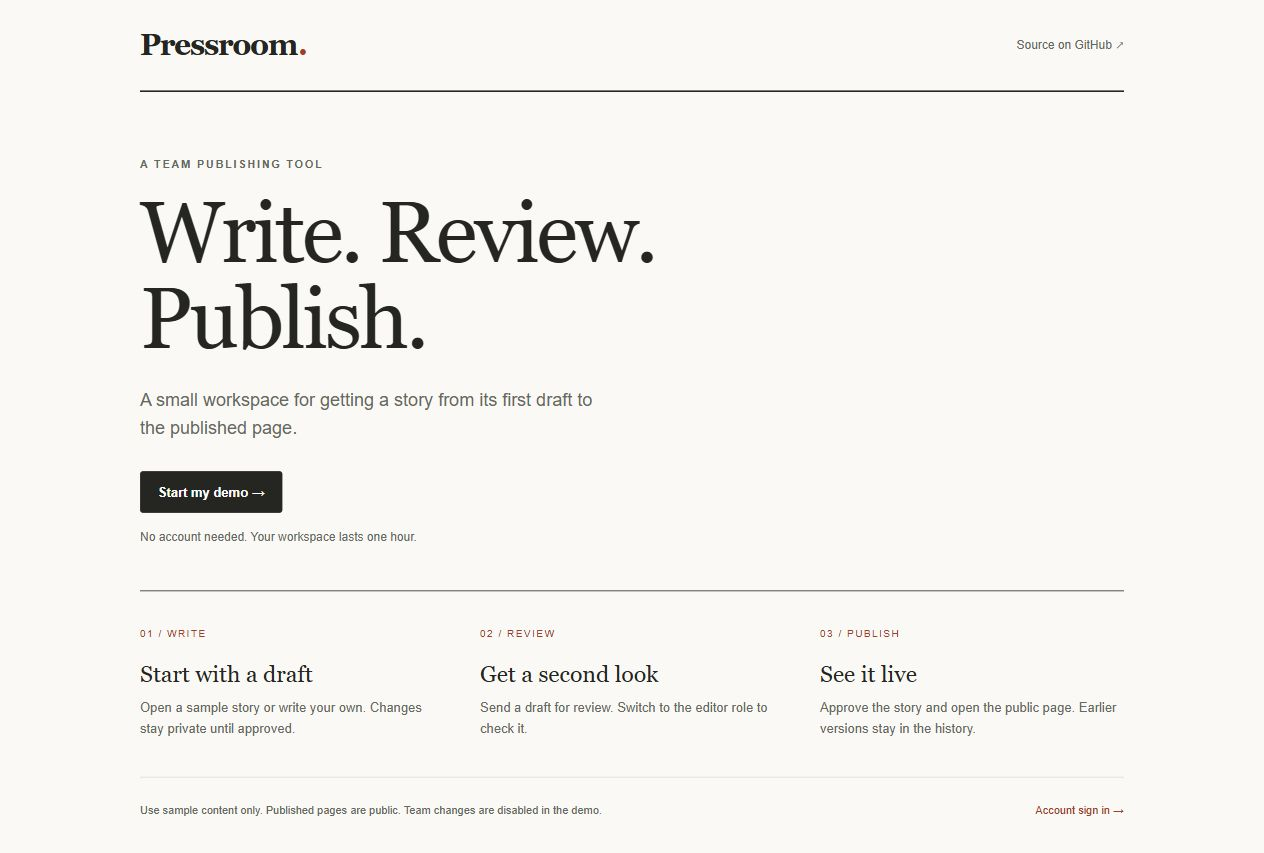
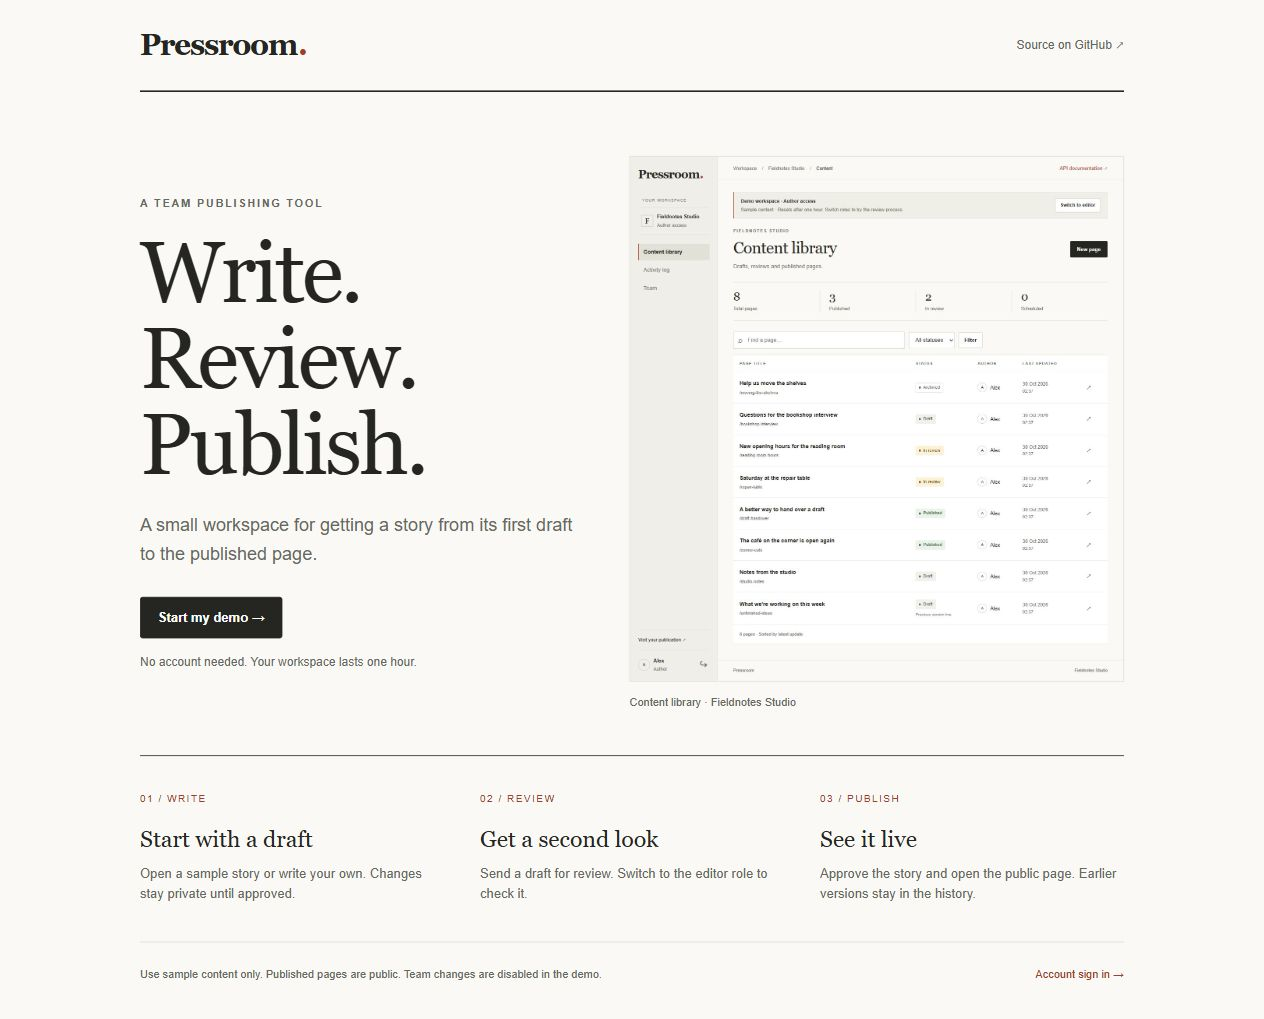
Polish the public demo and open it from the root URL

diff --git a/templates/publishing/demo.html b/templates/publishing/demo.html
@@ -1,12 +1,27 @@
 {% extends "base.html" %}
+{% load static %}
 {% block title %}Pressroom · Try the demo{% endblock %}
+{% block social_meta %}
+<meta property="og:title" content="Pressroom — Write. Review. Publish.">
+<meta property="og:description" content="Try the editorial workspace. Sample stories, a real review process and a public publication. No signup needed.">
+<meta property="og:type" content="website">
+<meta property="og:url" content="{{ request.scheme }}://{{ request.get_host }}{% url 'demo' %}">
+<meta property="og:image" content="{{ request.scheme }}://{{ request.get_host }}{% static 'workspace-preview.jpg' %}">
+<meta name="twitter:card" content="summary_large_image">
+{% endblock %}
 {% block layout %}
 <main id="main" class="demo-landing">
   <header class="demo-header"><a class="brand" href="{% url 'demo' %}">Pressroom<span class="brand-dot">.</span></a><a href="https://github.com/Mohamedajab/pressroom">Source on GitHub ↗</a></header>
+  <div class="demo-hero">
   <div class="demo-intro"><p class="eyebrow">A TEAM PUBLISHING TOOL</p><h1>Write. Review.<br>Publish.</h1>
   <p class="demo-lead">A small workspace for getting a story from its first draft to the published page.</p>
   <form method="post" action="{% url 'demo-start' %}">{% csrf_token %}<button class="button primary">Start my demo →</button></form>
   <p class="muted tiny">No account needed. Your workspace lasts one hour.</p></div>
+  <figure class="demo-preview">
+    <img src="{% static 'workspace-preview.jpg' %}" width="1264" height="1345" alt="Pressroom content library showing sample stories, their authors and review status.">
+    <figcaption>Content library · Fieldnotes Studio</figcaption>
+  </figure>
+  </div>
   <section class="demo-steps" aria-label="How the demo works">
     <div><span>01 / WRITE</span><h2>Start with a draft</h2><p>Open a sample story or write your own. Changes stay private until approved.</p></div>
     <div><span>02 / REVIEW</span><h2>Get a second look</h2><p>Send a draft for review. Switch to the editor role to check it.</p></div>

diff --git a/static/app.css b/static/app.css
@@ -961,9 +961,26 @@ input,select{
   font-size:12px;
   color:var(--muted)
 }
-.demo-intro{
-  padding:64px 0 44px;
-  max-width:680px
+.demo-hero{
+  display:grid;
+  grid-template-columns:1fr 1.1fr;
+  align-items:center;
+  gap:40px;
+  padding:64px 0 44px
+}
+.demo-preview{
+  margin:0
+}
+.demo-preview img{
+  display:block;
+  width:100%;
+  height:auto;
+  border:1px solid var(--line)
+}
+.demo-preview figcaption{
+  margin-top:12px;
+  font-size:11px;
+  color:var(--muted)
 }
 .demo-intro h1{
   font-size:clamp(48px,7vw,86px);
@@ -1277,7 +1294,9 @@ input,select{
   .demo-header>a:last-child{
     font-size:11px
   }
-  .demo-intro{
+  .demo-hero{
+    grid-template-columns:1fr;
+    gap:28px;
     padding:44px 0 32px
   }
   .demo-intro h1{

diff --git a/templates/base.html b/templates/base.html
@@ -5,6 +5,10 @@
     <meta charset="utf-8">
     <meta name="viewport" content="width=device-width, initial-scale=1">
     <title>{% block title %}Pressroom · Editorial workspace{% endblock %}</title>
+    <meta name="description" content="Write, review and publish stories with Pressroom. An editorial workspace with revision history and a live demo you can try without an account.">
+    <meta name="theme-color" content="#faf9f6">
+    <link rel="icon" href="{% static 'favicon.svg' %}" type="image/svg+xml">
+    {% block social_meta %}{% endblock %}
     <link rel="stylesheet" href="{% static 'app.css' %}">
   </head>
   <body>

diff --git a/publishing/views.py b/publishing/views.py
@@ -1,5 +1,7 @@
+from django.conf import settings
 from django.contrib import messages
 from django.contrib.auth.decorators import login_required
+from django.contrib.auth.views import redirect_to_login
 from django.core.exceptions import PermissionDenied, ValidationError
 from django.core.paginator import Paginator
 from django.db import connection
@@ -20,8 +22,11 @@ def _workspace(request, slug):
     return workspace, role
 
 
-@login_required
 def home(request):
+    if not request.user.is_authenticated:
+        if settings.DEMO_ENABLED:
+            return redirect("demo")
+        return redirect_to_login(request.get_full_path())
     workspaces = Workspace.objects.filter(memberships__user=request.user)
     first = workspaces.first()
     if first:

diff --git a/tests/test_demo.py b/tests/test_demo.py
@@ -16,6 +16,15 @@ def enable_demo(settings):
     settings.DEMO_ENABLED = True
 
 
+def test_public_home_opens_demo_without_an_account(client, settings):
+    response = client.get("/", follow=True)
+    assert response.status_code == 200
+    assert response.redirect_chain == [("/demo/", 302)]
+    assert b"Start my demo" in response.content
+    settings.DEMO_ENABLED = False
+    assert client.get("/").url == "/accounts/login/?next=/"
+
+
 def test_demo_is_opt_in_and_post_only(client, settings):
     settings.DEMO_ENABLED = False
     assert client.get("/demo/").status_code == 404

diff --git a/README.md b/README.md
@@ -6,7 +6,7 @@ A Django CMS for small editorial teams. Write a draft, send it for review, and p
 
 Each visitor gets a separate workspace with sample stories, revision history and author/editor switching. No signup is needed. The workspace expires after an hour.
 
-![Content library](docs/screenshots/dashboard.jpg)
+[![Content library](docs/screenshots/dashboard.jpg)](https://pressroom-demo-mohamedajab.vercel.app/demo/)
 
 ## Features
 
